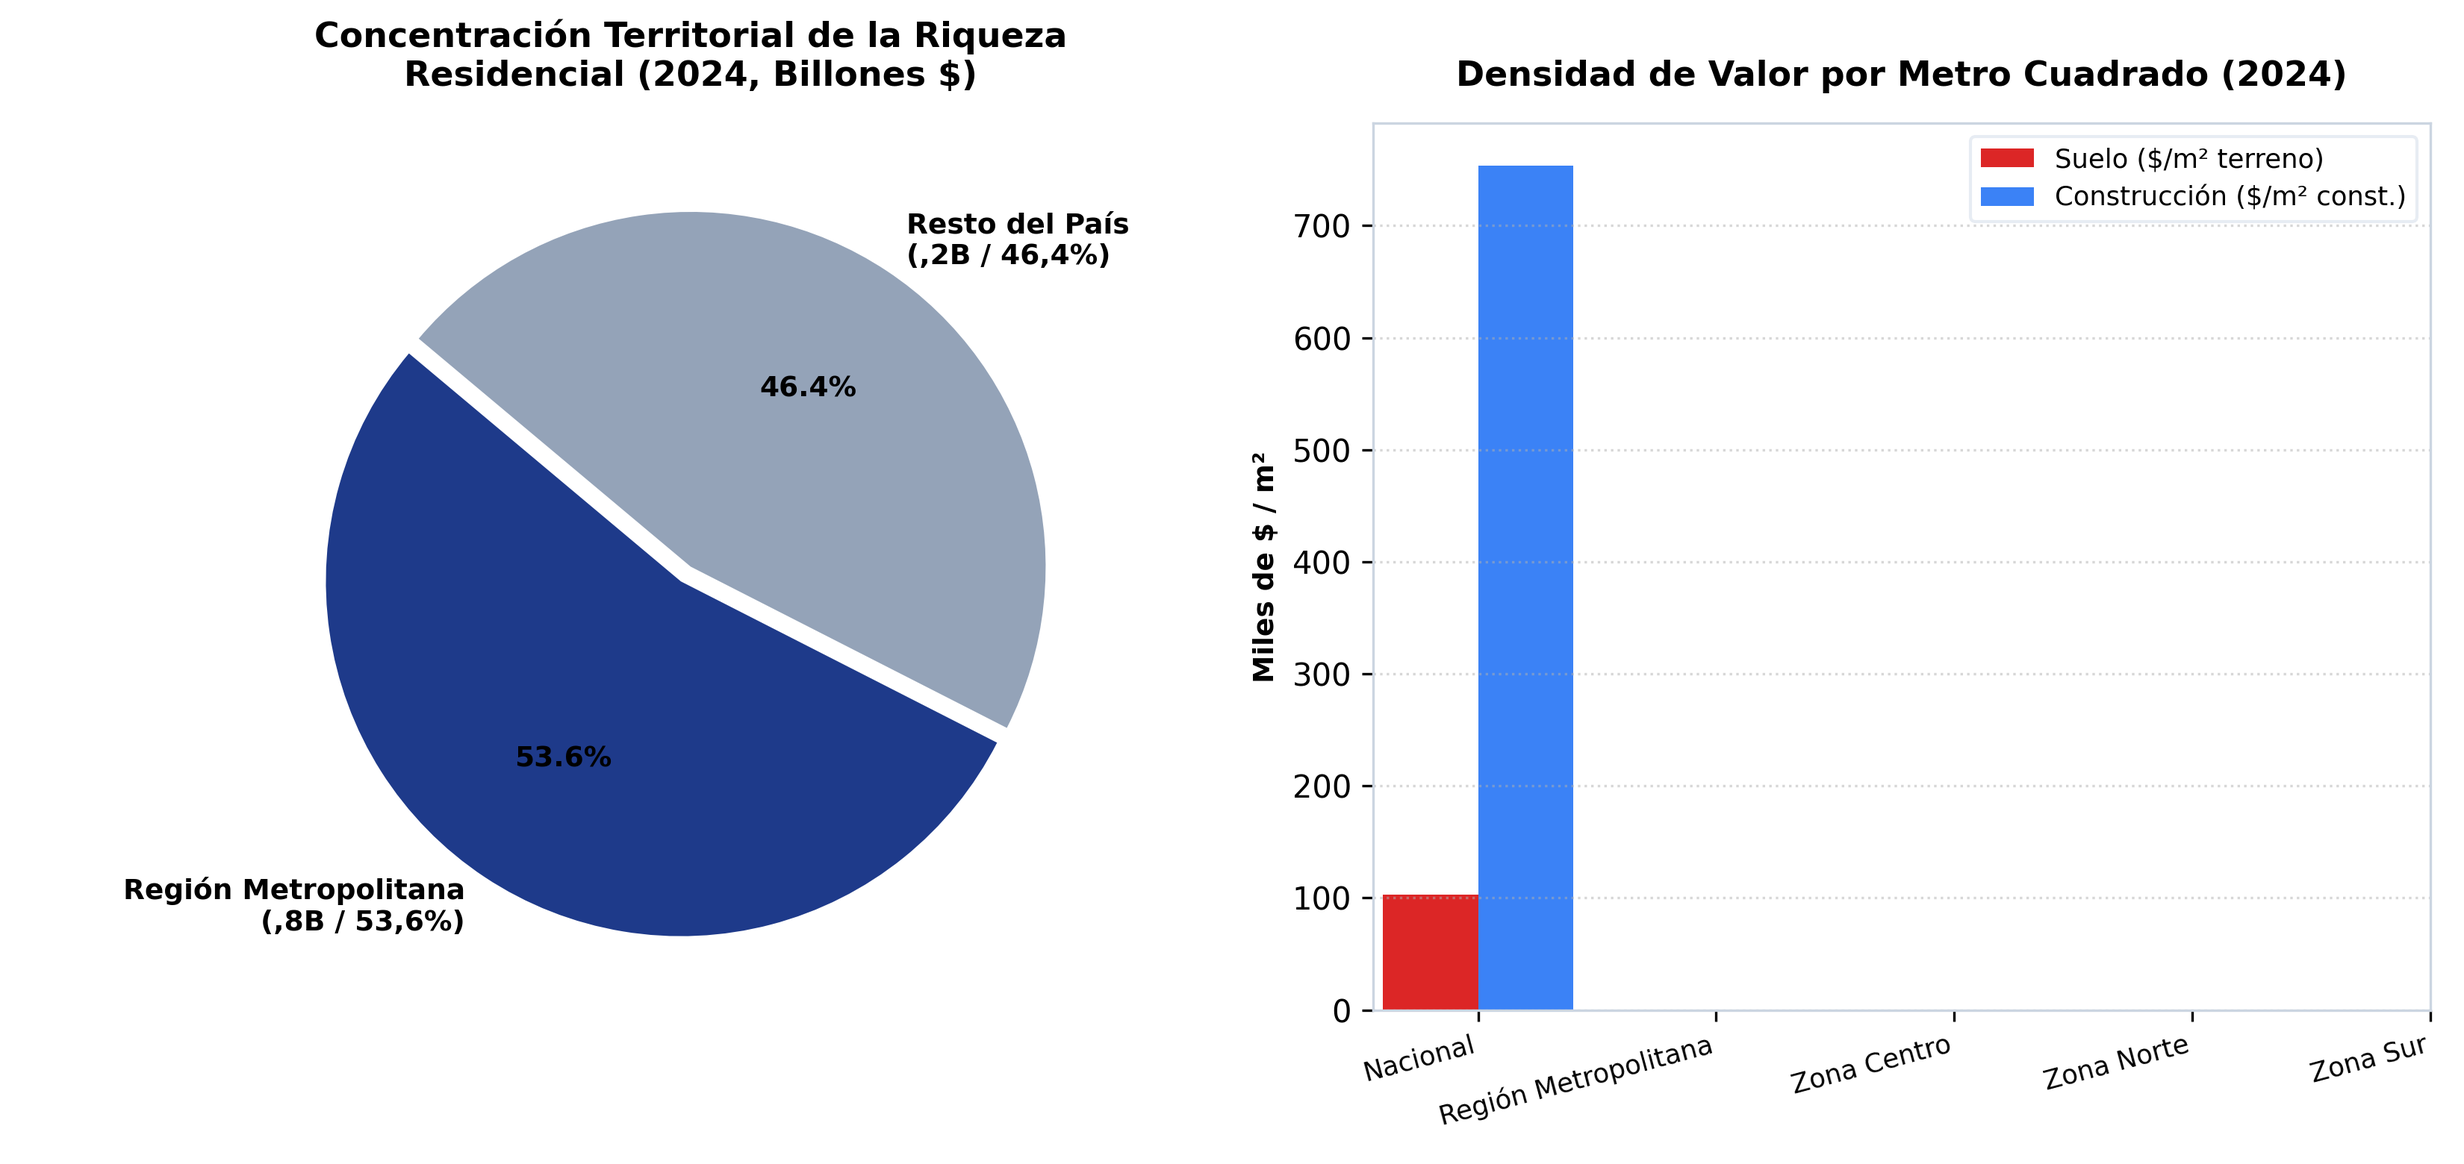
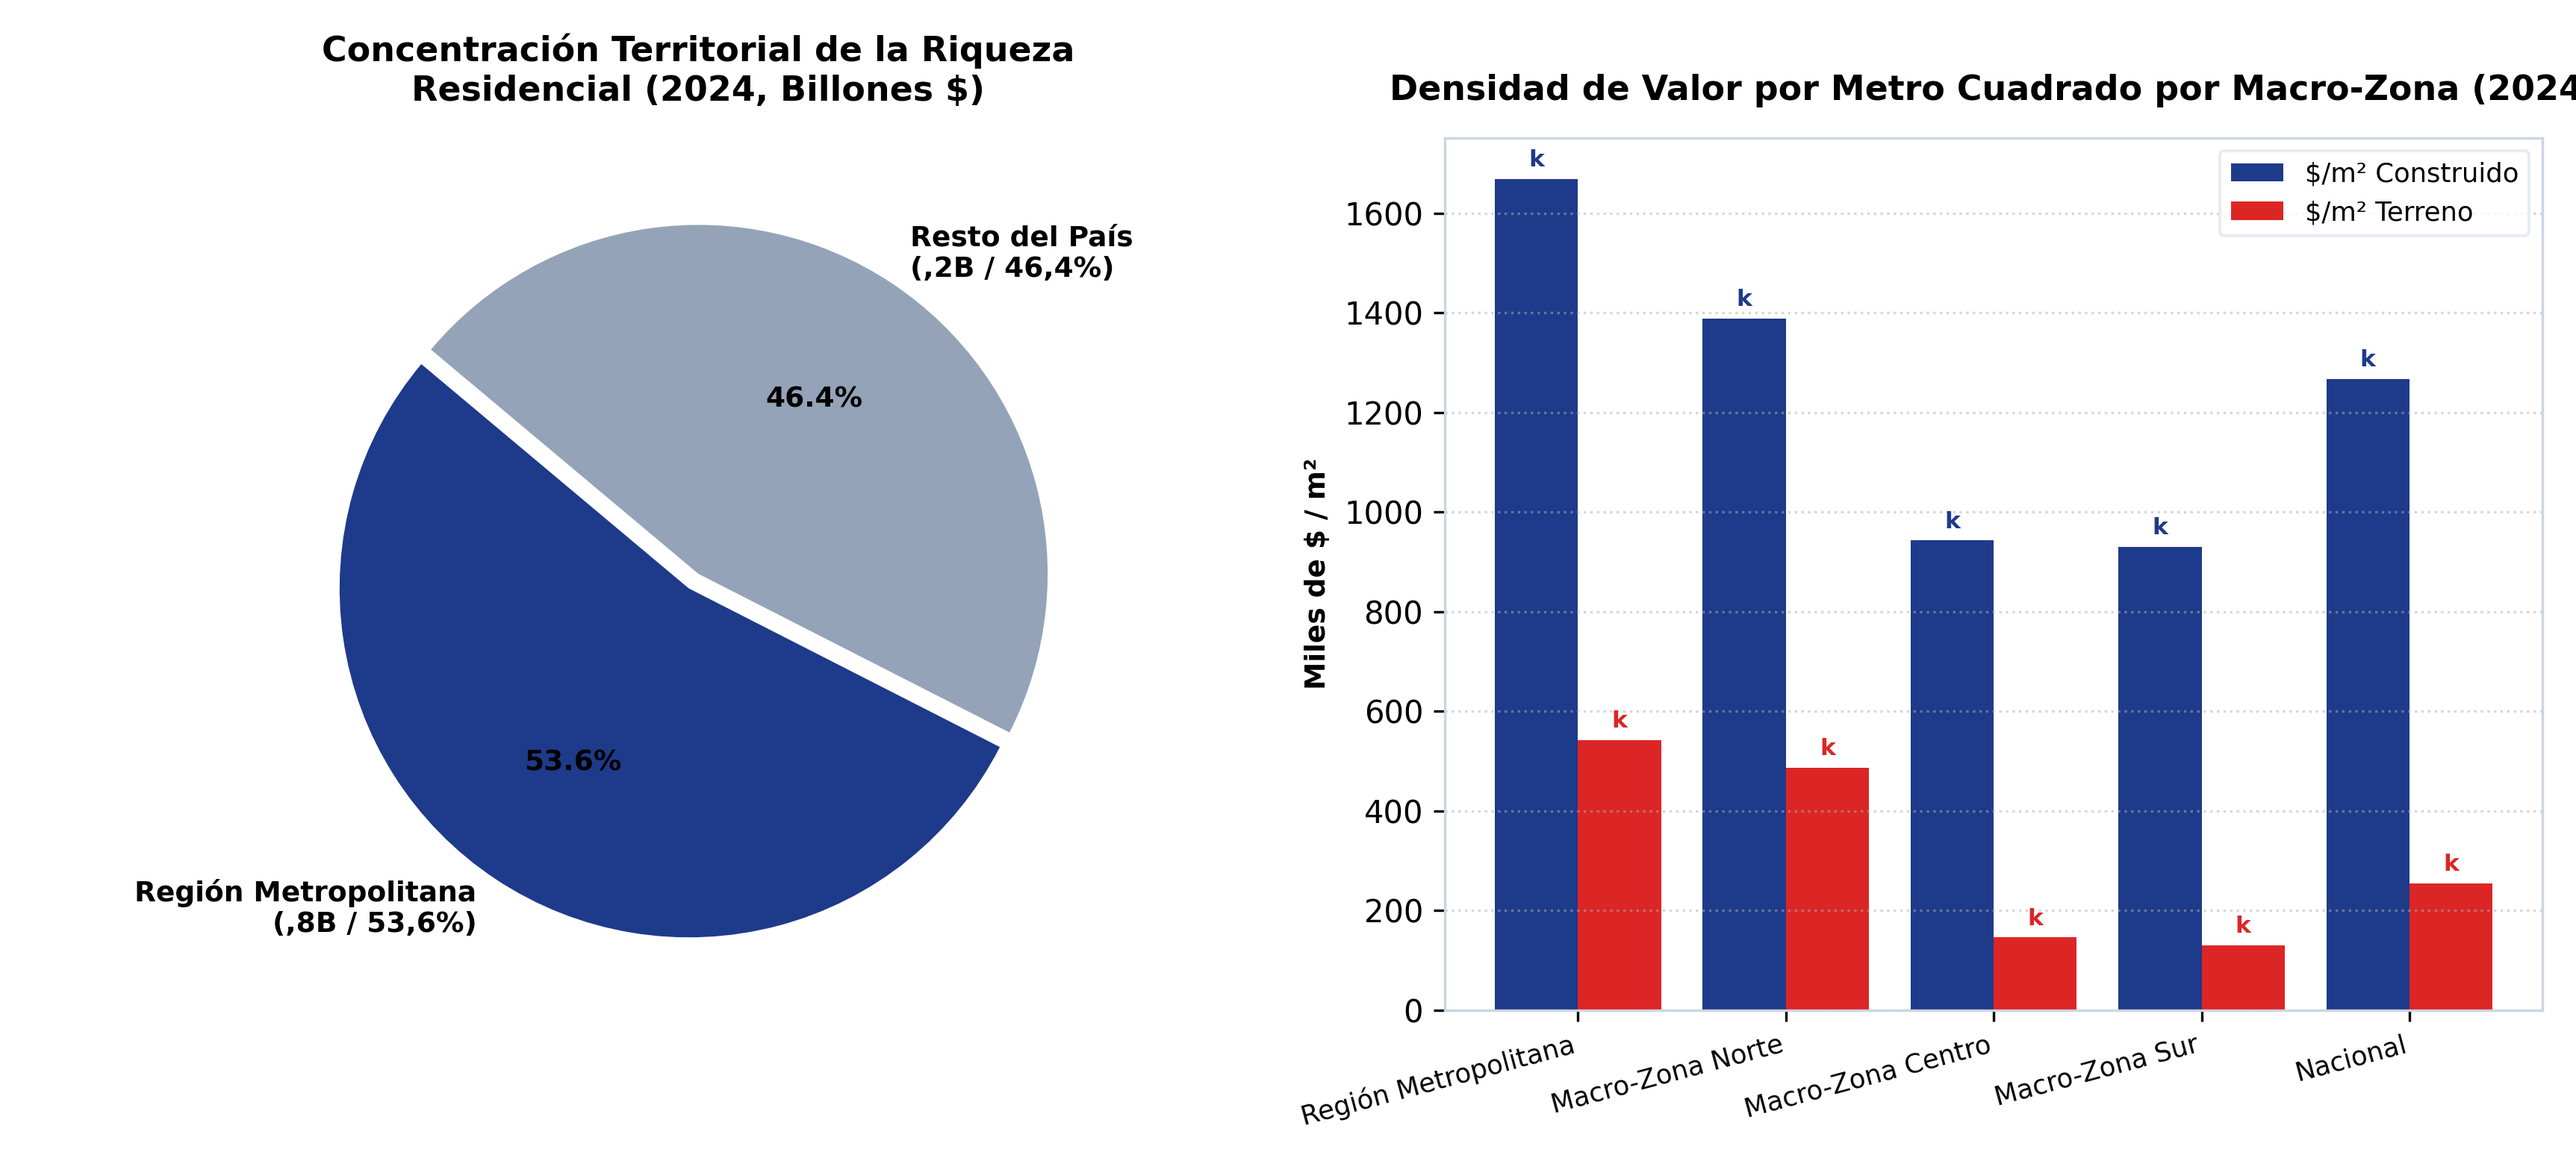
Inclusión de Macro-Zonas Norte, Centro y Sur en Figuras 5.2 y 5.3

diff --git a/bcch/reportes/report5-reserva-valor.html b/bcch/reportes/report5-reserva-valor.html
@@ -620,13 +620,13 @@ window.Quarto = {
 <div class="quarto-figure quarto-figure-center">
 <figure class="figure">
 <p><img src="../assets/fig5_2_ipv_subzonas.png" class="img-fluid figure-img"></p>
-<figcaption>Figura 5.2: Trayectoria del Índice de Precios de Vivienda (IPV Base 2008=100) en la RM y Subzonas</figcaption>
+<figcaption>Figura 5.2: Trayectoria del Índice de Precios de Vivienda (IPV Base 2008=100) por Macro-Zonas y Subzonas RM (2002–2026)</figcaption>
 </figure>
 </div>
 <div class="quarto-figure quarto-figure-center">
 <figure class="figure">
 <p><img src="../assets/fig5_3_densidad_valor.png" class="img-fluid figure-img"></p>
-<figcaption>Figura 5.3: Concentración Territorial y Densidad de Valor por Metro Cuadrado (2024)</figcaption>
+<figcaption>Figura 5.3: Concentración Territorial y Densidad de Valor por Metro Cuadrado por Macro-Zona (2024)</figcaption>
 </figure>
 </div>
 <div class="caveat">
